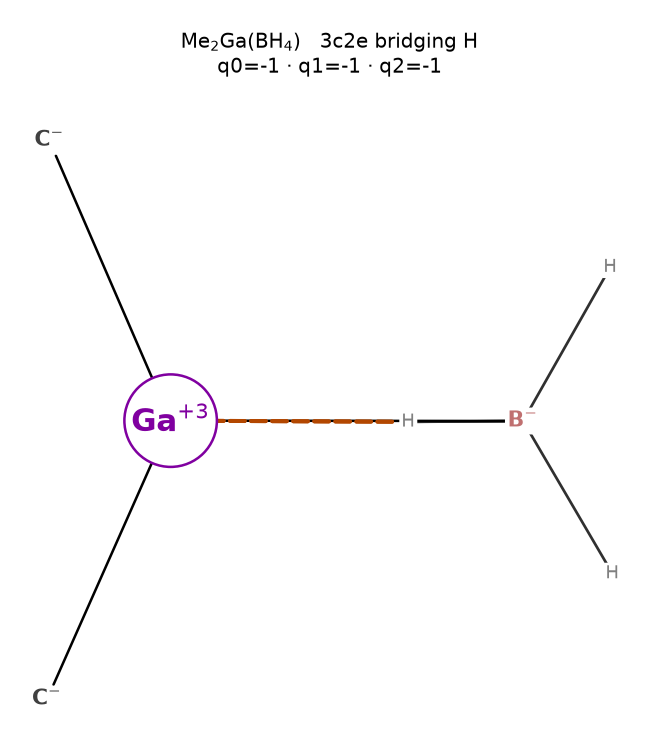
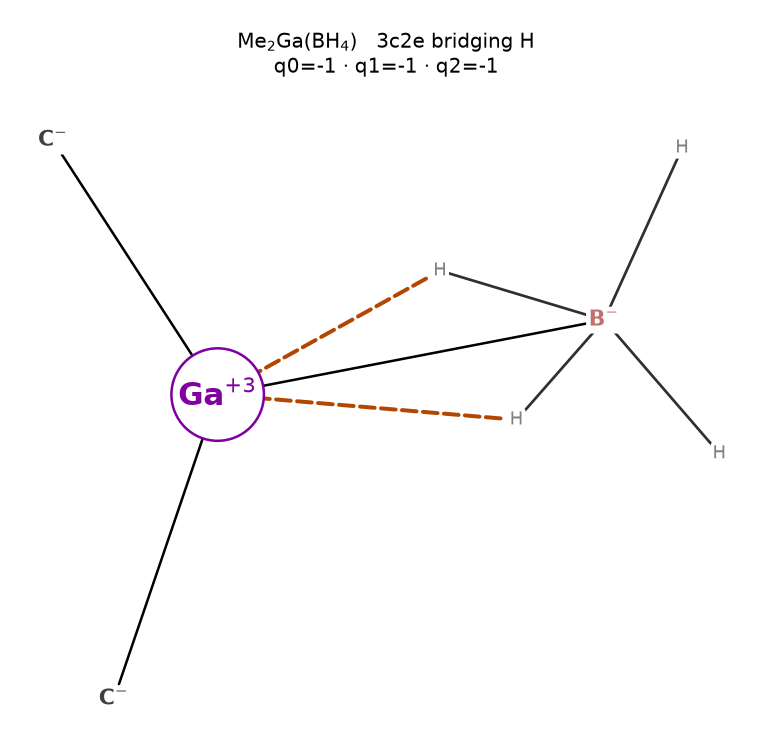
fix: an overlapping hydrogen is not free, and say where a 3c2e bridge is reported
`04_3c2e_gallium_bh4.png` drew a **kappa-1** borohydride. `Me2Ga(BH4)` is kappa-2 and
the pipeline finds both bridges (Ga-H 1.891 / 1.890 Å, both tagged 3c2e), but the two
bridging H landed on the same point in projection and one of the four H on boron went
with them, so the figure showed a different compound than the JSON did. `B2H6` had
the same fault - five hydrogens - which is why the previous commit hand-picked a
plane for it.

The cause is in `_clutter`'s `heavy` set: hydrogen is left out of the pairwise
overlap term, on the argument that a terminal H is a small dot and counting every one
of them drowns out the labelled atoms. But `keep` has **already dropped** the terminal
H. An H that survives to be drawn is one bonded to a centre or inside a 3c2e bridge -
the thing the figure exists to show - and leaving those out let two of them
superimpose for free. They now count, and both figures come out right on the automatic
plane. `B2H6` keeps its explicit plane only because the automatic one, while correct,
lands nearly edge-on to the bridge.

## and the schema

`bonds_3c2e` was documented in `api.py` and mentioned in the examples prose, but it
was **missing from the README's output block**, which is where a caller reads the
shape of a result. It is a field of every fragment, not a diborane special case, so
its absence there read as if `ml_bonds` were still the only place a bridge is
reported. Added, with a section that states the rule:
[…]

diff --git a/src/xyz2mol_om/output/drawing.py b/src/xyz2mol_om/output/drawing.py
@@ -179,7 +179,22 @@ def projection_axes(xyz, keep, bonds, ml_bonds=(), metals=(), elements=None):
     mset = {idx[m] for m in metals if m in idx}
     lab = None
     if elements is not None:
-        lab = {k for a, k in idx.items() if elements[a] != "H" and k not in mset}
+        # 🔴 Hydrogen is left out of the pairwise overlap term because a terminal H is a small
+        #    dot and counting every one of them drowns out the labelled atoms. But `keep` has
+        #    **already dropped** the terminal H — an H that survives to be drawn is one bonded to
+        #    a centre or inside a 3c2e bridge, which is the thing the figure exists to show.
+        #    Leaving those out let two of them land on the *same point* for free: `Me₂Ga(BH₄)`
+        #    drew one bridging H where there are two (a κ¹ borohydride, which is a different
+        #    compound), and `B₂H₆` drew five hydrogens. Count an H that is bonded to something in
+        #    `mset`, or that has two or more neighbours among the atoms being drawn.
+        _deg = collections.Counter()
+        for a, b in pairs:
+            if a in idx and b in idx:
+                _deg[a] += 1
+                _deg[b] += 1
+        _onm = {a for a, b in pairs if b in metals} | {b for a, b in pairs if a in metals}
+        lab = {k for a, k in idx.items()
+               if k not in mset and (elements[a] != "H" or a in _onm or _deg[a] >= 2)}
     mlb = np.array([[m, x] for m, x in ml_bonds], dtype=int) if len(ml_bonds) else None
     best, score = vt[:2], None
     # 🔴 The scan is 24 × 24, not 13 × 13. With the smooth score there is a gradient to follow,

diff --git a/examples/draw_examples.py b/examples/draw_examples.py
@@ -30,11 +30,10 @@ TITLE = {
 }
 
 
-# ★ An explicit viewing plane, for a structure where the automatic one hides something.
-#   `B₂H₆` is D2h with its four terminal H in one plane and its two bridging H on the axis
-#   perpendicular to it, so the least-cluttered scan settles on the terminal-H plane — and the
-#   two bridging H land on the **same point**, which draws a molecule with five hydrogens.
-#   Tilting 45° about the B–B axis separates them and keeps every bond at full length.
+# ★ An explicit viewing plane. The automatic scan is **correct** for `B₂H₆` — it no longer puts
+#   the two bridging H on one point — but it lands nearly edge-on to the bridge, so the diamond
+#   collapses and a terminal H crosses it. 45° about the B–B axis is the view that reads.
+#   `projection` is a documented argument of `draw`; nothing else here needs one.
 PROJECTION = {
     "06_diborane_b2h6": [[1.0, 0.0, 0.0], [0.0, 2**-0.5, 2**-0.5]],
 }

diff --git a/README.md b/README.md
@@ -85,6 +85,8 @@ r["molecules"] == [
       "ml_bonds": {(0, 1): {"type": "sigma",   # sigma | haptic | bridge
                             "order": 3,        # None if haptic
                             "bridge": None}},  # if bridging, "3c2e" | "dative"
+      "bonds_3c2e": [],          # [(i,j)] — the **metal-free** half of a 3c2e bridge
+                                 #   (`B–H–B`). Almost always empty; see below
       "eta": {},                 # {metal: k} — counted **per ligand**, so a bridged
                                  #   (ansa) metallocene is one η¹⁰, not η⁵:η⁵
       "charge": -3,              # this fragment's charge
@@ -117,6 +119,26 @@ from xyz2mol_om import all_metals, all_fragments
 all_metals(r)      # every metal record, across molecules
 all_fragments(r)   # every fragment record, across molecules
 ```
+
+### Where a 3c2e bridge is reported
+
+A 3c2e bridge is written in **one of two places, never both**, and which one depends only on
+whether a metal is part of the bridge:
+
+| the bridge | reported in | example |
+|---|---|---|
+| runs through a centre | `ml_bonds[(m,x)]["bridge"] == "3c2e"` | `μ-H` · `μ-CO` · `μ-CH₃` · a κ²-`BH₄` (④) |
+| is entirely inside a ligand | **`bonds_3c2e`** on the fragment | `B–H–B` in a borane (⑥) |
+
+`bonds_3c2e` is a field of **every** fragment, not a special case — it is an empty list for
+almost everything, because the only elements that bridge with no metal in them are `B` and `Al`
+(the T7 rule's `MLIKE_EXTRA`). Its entries are `(i, j)` pairs that also appear in `bonds_kekule`
+with order 1: the skeleton draws the leg, and the charge does **not** price it, because the two
+legs of a bridge share one electron pair (`charge.q_atom`, argument `b_3c`).
+
+⚠ A fragment holding one is **not expressible in two-centre form** — its bridging atom has two
+bonds and no valence left for them — so `smiles_ok` is `False` and `assemble_complex` will refuse
+it. Read `bonds_kekule` + `bonds_3c2e` instead of the SMILES.
 
 ### More than one molecule in the input
 
@@ -186,11 +208,8 @@ python examples/draw_examples.py           # redraw the PNGs
 | ⑤ | `05_mm_quadruple_re2cl8` | `[Re₂Cl₈]²⁻` | M–M bond | [json](examples/05_mm_quadruple_re2cl8.result.json) | [png](examples/05_mm_quadruple_re2cl8.png) |
 | ⑥ | `06_diborane_b2h6` | `B₂H₆` (gas phase) | **3c2e with no metal** — `bonds_3c2e`, bridging `[H-]`, `B(+1)`, and no `B–B` | [json](examples/06_diborane_b2h6.result.json) | [png](examples/06_diborane_b2h6.png) |
 
-⑥ is the one example with **no metal in it**. Boron is a ligand atom, so `B₂H₆` is an ordinary
-covalent molecule whose two bridging hydrogens are `3c2e` — reported in `bonds_3c2e` (the M–L side
-of a bridge stays in `ml_bonds[...]["bridge"]`, which is what ④ shows). Its `smiles_ok` is
-**False** on purpose: a bridging H has two bonds and cannot be written in two-centre form, so use
-`bonds_kekule` + `bonds_3c2e`.
+④ and ⑥ are the two sides of the same rule — a 3c2e bridge with a metal in it and one without.
+See [Where a 3c2e bridge is reported](#where-a-3c2e-bridge-is-reported).
 
 To save a result yourself use `save_json(r, path)`, and to read it back `load_json(path)`
 (bond keys `(i, j)` are stored as `"i,j"` and converted back on read).
